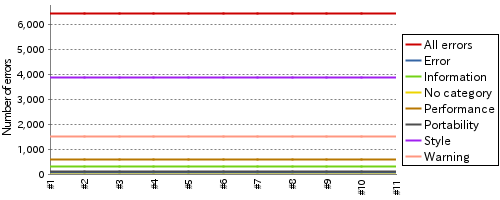
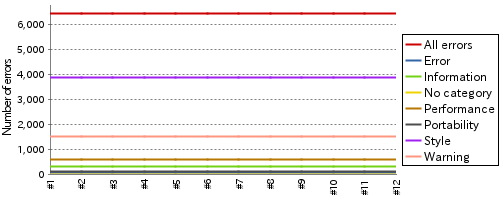
update report

diff --git a/index.md b/index.md
@@ -2,7 +2,7 @@
 layout: default
 ---
 # Jenkins CI report For HRG
-## Build and test report (2015/07/02 19:28:17)
+## Build and test report (2015/07/02 20:28:42)
 ### Build Status
 ___
 ![Build Status](http://jenkinshrg.github.io/images/badge.svg)
@@ -31,12 +31,13 @@ UNSTABLE
 * Stability
   
 ![Jenkins Icon](http://jenkinshrg.github.io/images/48x48/health-00to19.png)
-9%
+8%
   
 * Latest Results
   
 |Status|Time|Duration|Changes|Build|Test|Note|
 |---|---|---|---|---|---|---|
+|![Jenkins Icon](http://jenkinshrg.github.io/images/24x24/yellow.png)UNSTABLE|2015/07/02 20:00|28 min.|[CHANGES](https://drive.google.com/file/d/0B54sHwaxmuM4MjNqREhNd08tM2s/view?usp=drivesdk) |[BUILD](https://drive.google.com/file/d/0B54sHwaxmuM4WU5tUGlRZV9RMUU/view?usp=drivesdk) |[CONSOLE](https://drive.google.com/file/d/0B54sHwaxmuM4TFhNQUo4TTZBd2c/view?usp=drivesdk) [IMAGE](https://drive.google.com/file/d/0B54sHwaxmuM4ZFAwai1lX1cyY1U/edit?usp=drivesdk) [VIDEO](https://drive.google.com/file/d/0B54sHwaxmuM4MFV6dWtLMXlBR2s/edit?usp=drivesdk) |STOP RED|
 |![Jenkins Icon](http://jenkinshrg.github.io/images/24x24/yellow.png)UNSTABLE|2015/07/02 19:00|28 min.||[BUILD](https://drive.google.com/file/d/0B54sHwaxmuM4NlFGaHdDMXVjZG8/view?usp=drivesdk) |[CONSOLE](https://drive.google.com/file/d/0B54sHwaxmuM4THRqVGRkWlpYcTQ/view?usp=drivesdk) [IMAGE](https://drive.google.com/file/d/0B54sHwaxmuM4X3c2d1g2SDFkYjg/edit?usp=drivesdk) [VIDEO](https://drive.google.com/file/d/0B54sHwaxmuM4WjJpNkxKU096YUk/edit?usp=drivesdk) |STOP RED|
 |![Jenkins Icon](http://jenkinshrg.github.io/images/24x24/yellow.png)UNSTABLE|2015/07/02 18:00|28 min.|[CHANGES](https://drive.google.com/file/d/0B54sHwaxmuM4ZUgweDJwTmZCUDQ/view?usp=drivesdk) |[BUILD](https://drive.google.com/file/d/0B54sHwaxmuM4eFdqYUNKUzVockE/view?usp=drivesdk) |[CONSOLE](https://drive.google.com/file/d/0B54sHwaxmuM4ZDQ2WXJMWGw3Ykk/view?usp=drivesdk) [IMAGE](https://drive.google.com/file/d/0B54sHwaxmuM4QXo1WklUaUlLUFE/edit?usp=drivesdk) [VIDEO](https://drive.google.com/file/d/0B54sHwaxmuM4U2VVUEt5QTRidVU/edit?usp=drivesdk) |STOP NORMAL|
 |![Jenkins Icon](http://jenkinshrg.github.io/images/24x24/yellow.png)UNSTABLE|2015/07/02 17:00|28 min.|[CHANGES](https://drive.google.com/file/d/0B54sHwaxmuM4RjVHMlJoSF9kQWM/view?usp=drivesdk) |[BUILD](https://drive.google.com/file/d/0B54sHwaxmuM4dTA2Ym1oM29kQUE/view?usp=drivesdk) |[CONSOLE](https://drive.google.com/file/d/0B54sHwaxmuM4MTdVUFBhS3lVNUU/view?usp=drivesdk) [IMAGE](https://drive.google.com/file/d/0B54sHwaxmuM4T1J2Nnlqd2plSkE/edit?usp=drivesdk) [VIDEO](https://drive.google.com/file/d/0B54sHwaxmuM4QzJZUGpwUEFFc0E/edit?usp=drivesdk) |STOP NORMAL|
